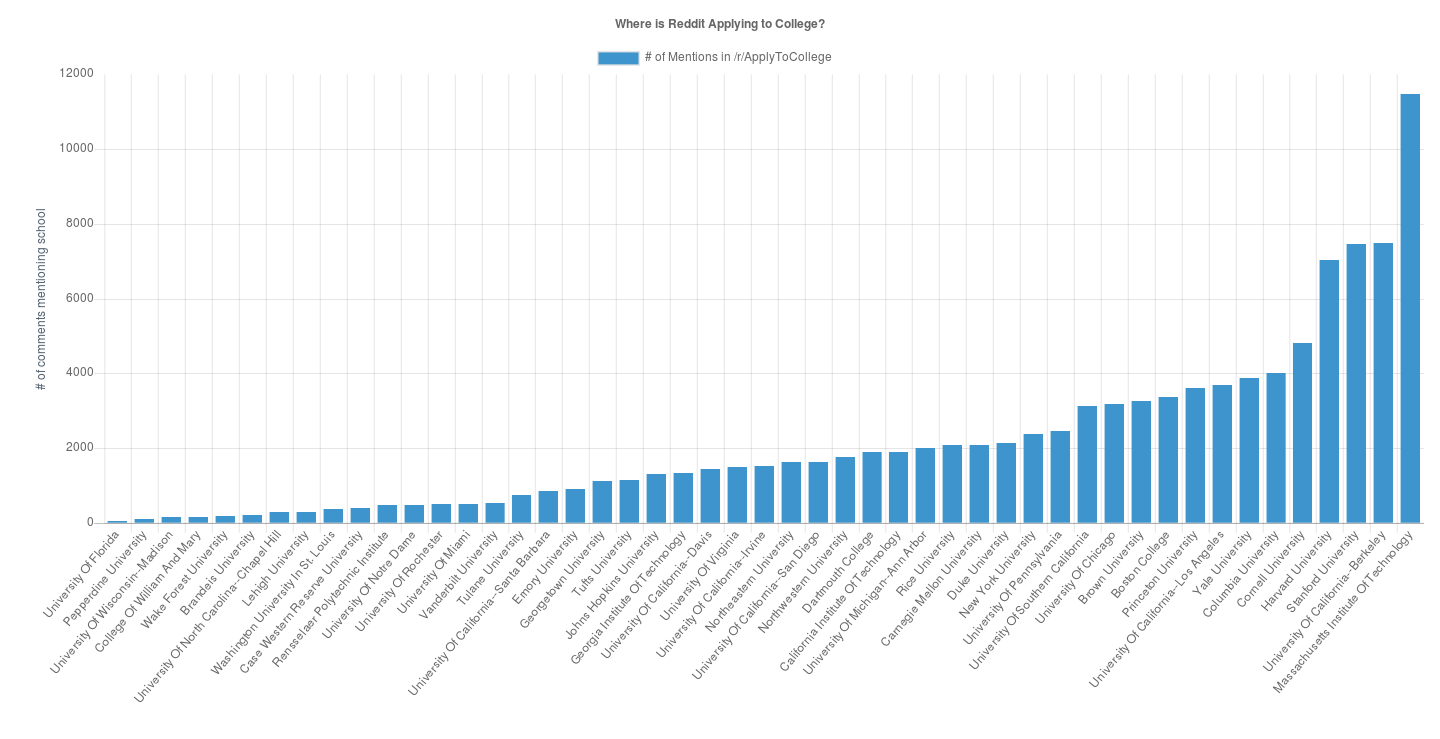
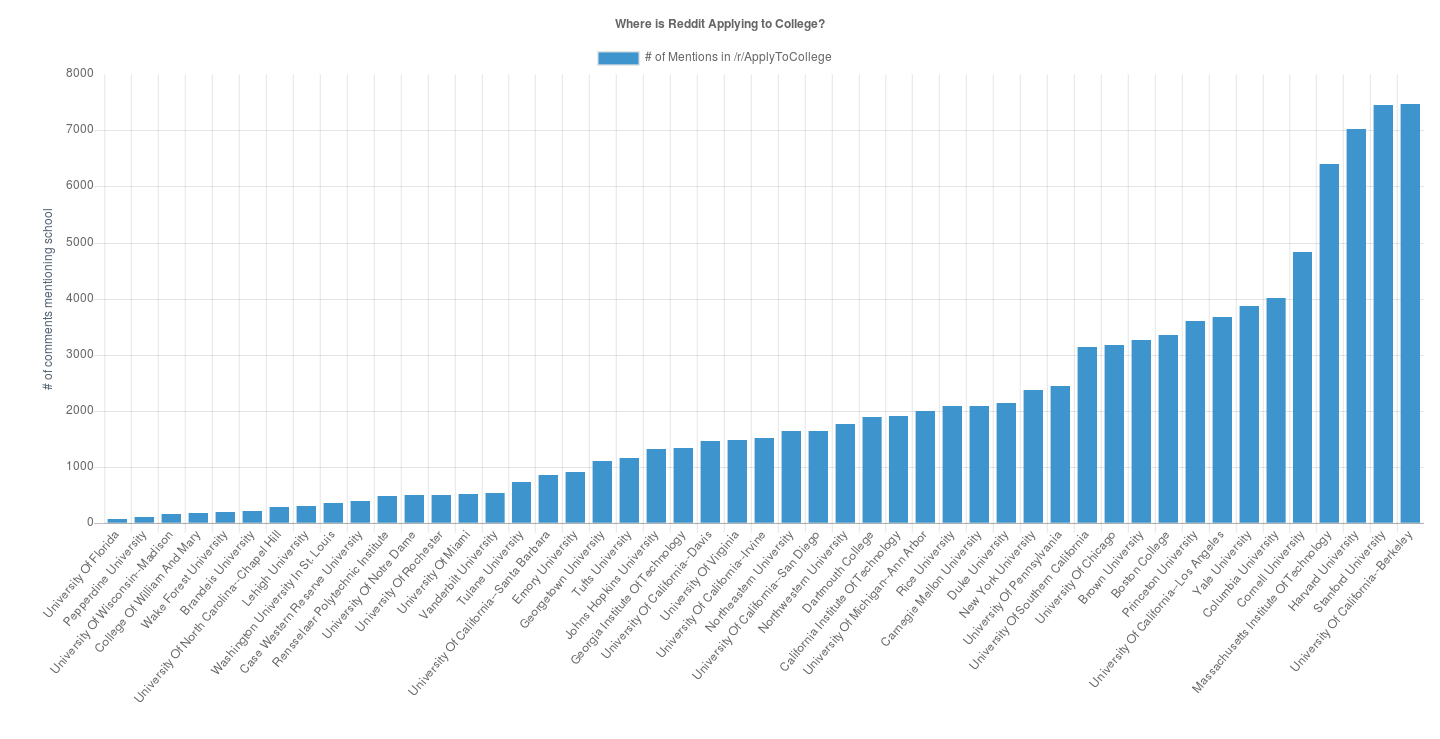
More accurate representation after adding MIT exception

diff --git a/scriptsUsed/countCollege.py b/scriptsUsed/countCollege.py
@@ -4,6 +4,7 @@ reload(sys)  # Reload does the trick!
 sys.setdefaultencoding('UTF8')
 import json
 import glob
+import re
 import traceback
 DB = {"Total": 0}
 finalList = {}
@@ -22,7 +23,13 @@ def getCollege(text):
 	info = []
 	# input string of text and it returns colleges inside
 	for college in finalList.keys():
-		if college.lower() in text.lower():
+		if college == 'mit':
+			newText = re.findall("(\w+)", str(text).lower())
+			# Extracts all words from collegeText
+			if 'mit' in newText:
+				for i in range(newText.count('mit')):
+					info.append(finalList["mit"])
+		elif college.lower() in text.lower():
 			#print str(text.split(" ")).lower()
 			for i in range(text.lower().count(college.lower())):
 				info.append(finalList[college])
